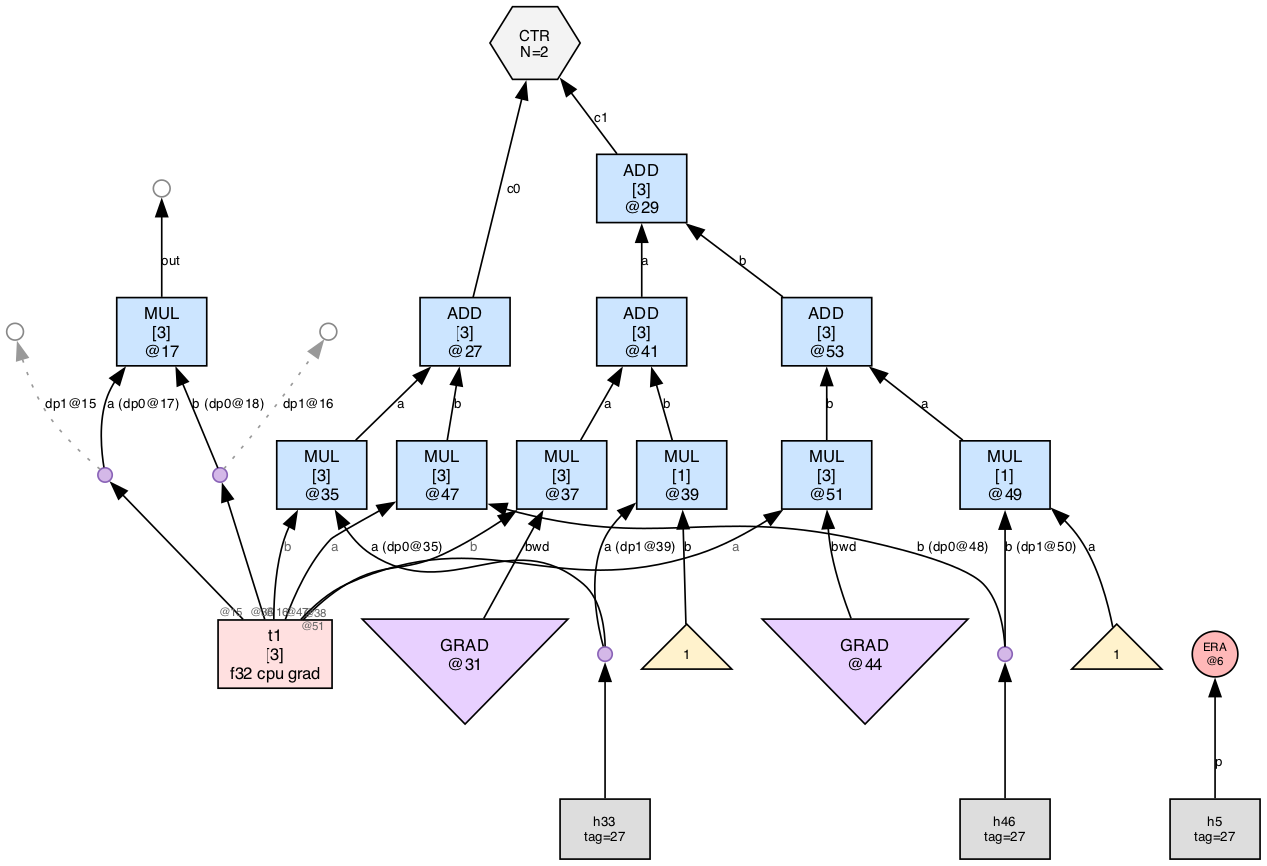
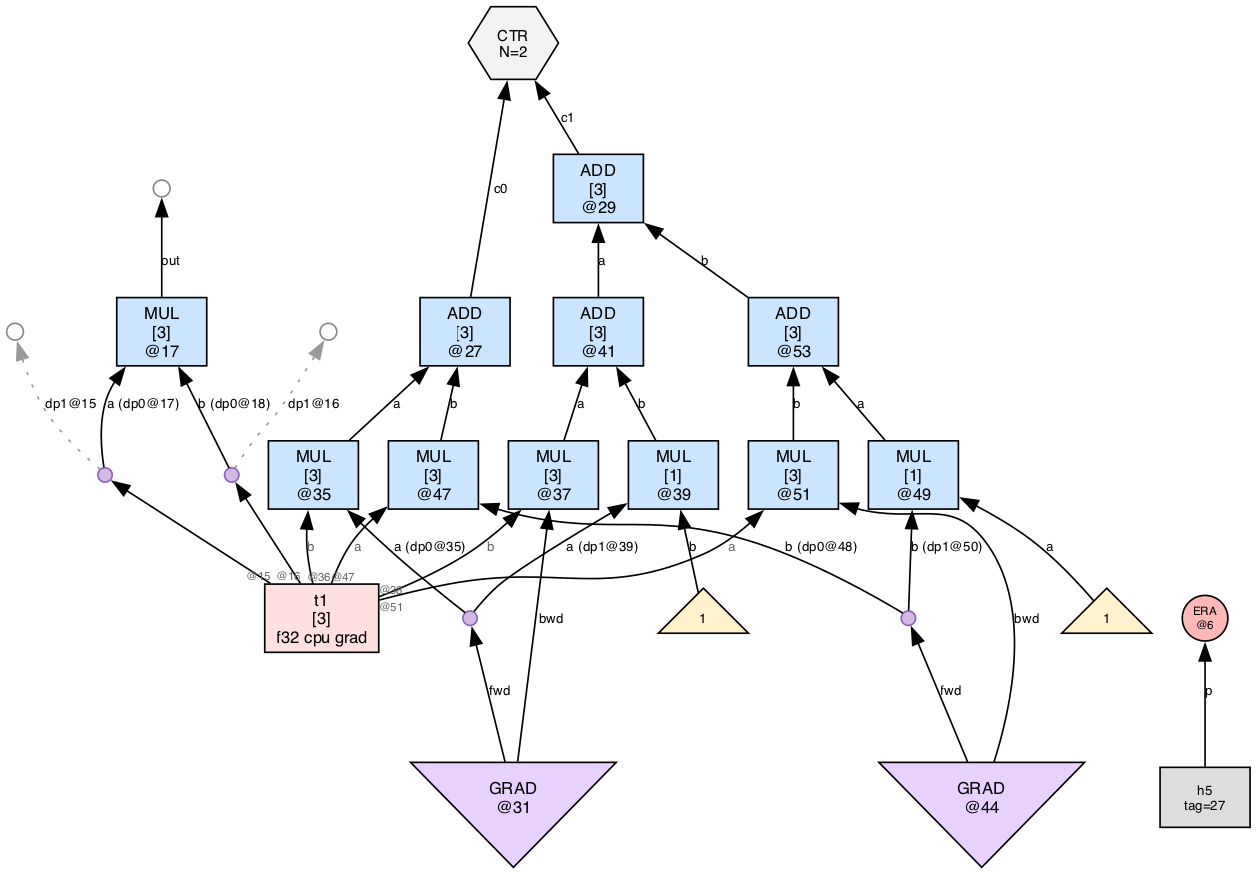
grad: chained-compute test + DUP-chain render for TAG_GF/GB
New edge-case test_chained_compute wires a GRAD's backward output into
a downstream MUL:

    y      = MUL(a, a)          // forward
    (_, g) = GRAD(y, a)         // g ≈ 2a (TAG_GB)
    z      = MUL(g, g)          // z ≈ 4a², via DUP(g)

Before: DUP of a TAG_GF/GB term hit the raw-heap-cell fallback in the
EMIT_DUP_CHAIN macro — rendered as `h%llu [tag=27/28]` with no
connection to the GRAD cell. Added TAG_GF/GB dispatch to the chain
renderer so the DUP's shared value shows a proper GRAD triangle with
its fwd/bwd edge.

24/24 PASS.

diff --git a/test/test_grad_rules.m b/test/test_grad_rules.m
@@ -230,6 +230,38 @@ static int test_pad(void) {
 // Multi-target bundle: gradient wrt TWO parameters at once.
 //   bundle = grad_pair_bundle(MUL(a, b), [a, b])
 // Expected bundle[0] = ∂(a·b)/∂a = b, bundle[1] = ∂(a·b)/∂b = a.
+// Chained compute: GRAD output feeds a forward MUL.
+//     y        = MUL(a, a)               // forward
+//     (_, g)   = GRAD(y, a)               // g = 2a
+//     z        = MUL(g, g)                // z = 4a²
+// Produces a graph where TAG_GB auxes appear as operands of downstream
+// compute TOPs — checks that the renderer + arity lookups handle this.
+static int test_chained_compute(void) {
+    setup_graph_dir("chained_compute");
+    TinyHVM *ctx = thvm_init("cpu");
+    f32 ad[] = {1,2,3};
+    Term a = thvm_tensor(ctx, ad, SHAPE(3));
+    thvm_set_requires_grad(ctx, a);
+    Term a0, a1;
+    thvm_dup(ctx, thvm_fresh_label(ctx), a, &a0, &a1);
+    Term y = thvm_op(ctx, UOP_MUL, a0, a1);
+
+    Term fwd, g;
+    thvm_grad_pair_target(ctx, a, y, &fwd, &g);
+    thvm_spawn_detached_era(ctx, fwd);
+
+    /* DUP g so it can be used twice in MUL(g, g) */
+    Term g0, g1;
+    thvm_dup(ctx, thvm_fresh_label(ctx), g, &g0, &g1);
+    Term z = thvm_op(ctx, UOP_MUL, g0, g1);
+
+    thvm_eval(ctx, z);
+    thvm_free(ctx);
+    const char *pre[]  = {"GRAD", "MUL"};
+    int ok = topo_check("chained_compute", 0, pre, 2);
+    return report("chained", ok);
+}
+
 static int test_bundle_multitarget(void) {
     setup_graph_dir("bundle_multitarget");
     TinyHVM *ctx = thvm_init("cpu");
@@ -398,6 +430,7 @@ int main(void) {
     fails += test_pad();
     fails += test_assign();
     fails += test_bundle_multitarget();
+    fails += test_chained_compute();
     fails += test_second_derivative();
     fails += test_target_nomatch();
     printf("\ntotal failures: %d\n", fails);

diff --git a/src/debug/dump.c b/src/debug/dump.c
@@ -1362,6 +1362,12 @@ static void thvm_heap_dot_root(TinyHVM *ctx, const char *path, Term root) {
                     fprintf(f, "  num_d%llu [label=\"%.4g\",shape=triangle,fillcolor=\"#fff2cc\",fontsize=8];\n", (unsigned long long)_cur, (double)_fv); \
                     fprintf(f, "  num_d%llu -> dup%llu%s;\n", (unsigned long long)_cur, (unsigned long long)_cur, _hl_principal ? " [color=\"#cc0000\",penwidth=2.0]" : ""); } \
                 else if (_stag == TAG_ANY) { EMIT_ANY_NODE(_cur); fprintf(f, "  any%llu -> dup%llu%s;\n", (unsigned long long)_cur, (unsigned long long)_cur, _hl_principal ? " [color=\"#cc0000\",penwidth=2.0]" : ""); } \
+                else if (_stag == TAG_GF || _stag == TAG_GB) { \
+                    EMIT_GRAD_CELL(term_val(_shared)); \
+                    const char *_gport = (_stag == TAG_GF) ? "fwd" : "bwd"; \
+                    fprintf(f, "  grad%llu -> dup%llu [label=\"%s\"];\n", \
+                            (unsigned long long)term_val(_shared), (unsigned long long)_cur, _gport); \
+                } \
                 else { EMIT_RAW_NODE(_cur, _shared); fprintf(f, "  h%llu -> dup%llu%s;\n", (unsigned long long)_cur, (unsigned long long)_cur, _hl_principal ? " [color=\"#cc0000\",penwidth=2.0]" : ""); } \
             } \
             break; \
